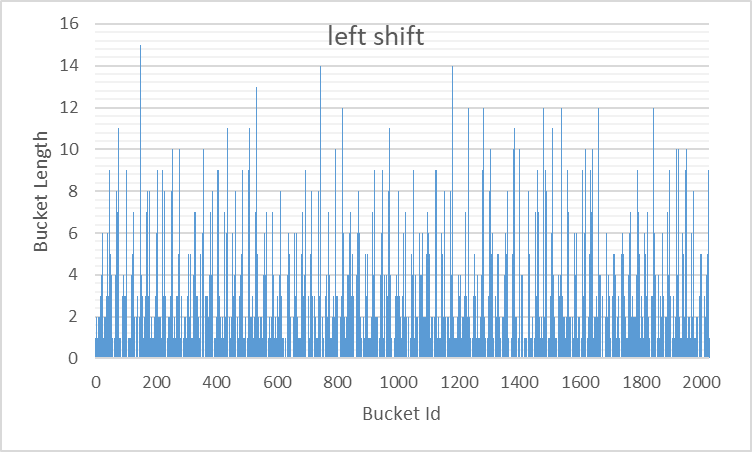
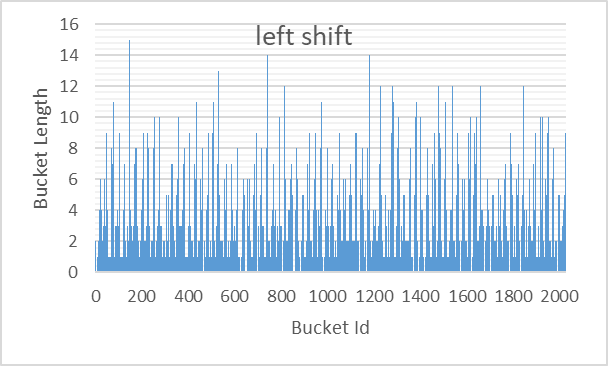
chore: unite experiment reports, resized images, fixed inconveniences

Changed region(s): [[0.0312, 0.0301, 0.9688, 0.9317], [0.0625, 0.0301, 0.125, 0.0902]]

diff --git a/REPORT.md b/REPORT.md
@@ -1,35 +1,126 @@
-# Исследование оптимизаций поиска значений в хеш-таблице с закрытой адресацией.
+# Отчёт об исследовании хеш-таблиц
+
 ## Введение
 Рассмотрим следующую задачу:
 
 *"Дан художественный текст на английском языке. Требуется составить множество слов текста, то есть структуру, хранящую все его слова и позволяющую как можно быстрее определять принадлежность некоторого слова к нему."*
 
-Задача может быть решена с использованием хеш-таблицы c закрытой адресацией (описание алгоритма на [AlgoList](https://www.algolist.net/Data_structures/Hash_table)).
+Задача может быть решена с использованием хеш-таблицы c закрытой адресацией (см. описание алгоритма на сайте [AlgoList](https://www.algolist.net/Data_structures/Hash_table)).
 
 Введём следующие определения:
  - **ключ** (**элемент**) - идентификатор элемента, хранящегося в структуре. В случае рассматриваемой задачи это слово из текста.
  - **хеш-функция** - функция, сопоставляющая ключам некоторые натуральные числа. Числа, сопоставляемые одинаковым ключам должны быть равны.
  - **хеш** - значение хеш-функции.
  - **список** (**bucket**) - множество элементов, в которое можно добавлять ключи и проверять, находятся ли они в нём. Соответствует структуре данных "связный список".
- - **хеш-таблица** (**таблица**) - множество списков, в каждом из которых всем ключам соответствуют одинаковые по модулю количества списков в таблице хеши.
+ - **хеш-таблица** (**таблица**) - множество списков, в каждом из которых всем ключам соответствуют одинаковые (по модулю количества списков в таблице) хеши.
 
-**Проверка принадлежности** ключей к хеш-таблице происходит по следующей последовательности действий:
+**Проверка принадлежности** ключей к хеш-таблице происходит по следующему алгоритму:
  1. Пусть требуется проверить ключ $x$ на принадлежность к таблице. Посчитаем хеш элемента $h(x)$, где $h$ - хеш-функция.
  2. Рассмотрим $h(x) \text{mod} N$ - й список таблицы, где $N$ - количество списков в таблице. Если $x$ принадлежит списку, то $x$ принадлежит таблице. Иначе $x$ не принадлежит таблице.
 
 | ![article_assets/table_search.png](article_assets/table_search.png) |
 | --- |
-| *Фигура 1. Иллюстрация к проверке принадлежности ключа к таблице. Зелёными ячейками обозначены индексы списков внутри таблицы. Синими клетками обозначены элементы самих списков. Символом '%' обозначено взятие числа по модулю. Остальные обозначения совпадают с обозначениями, введёнными в описании алгоритма.* |
+| *Рисунок 1. Иллюстрация к проверке принадлежности ключа к таблице. Зелёными ячейками обозначены индексы списков внутри таблицы. Синими клетками обозначены элементы самих списков. Символом '%' обозначено взятие числа по модулю. Остальные обозначения совпадают с обозначениями, введёнными в описании алгоритма.* |
 
-**Добавление** ключа в таблицу происходит по следующей последовательности действий:
+**Добавление** ключа в таблицу происходит по следующему алгоритму:
  1. Если ключ $x$ уже принадлежит таблице, ничего не делать.
  2. Иначе добавить $x$ в $h(x) \text{mod} N$ - й список таблицы, где $N$ - количество списков в таблице, $h$ - хеш-функция.
 
 | ![article_assets/table_insert.png](article_assets/table_insert.png) |
 | --- |
-| *Фигура 2. Иллюстрация к добавлению ключа к таблице. Зелёными ячейками обозначены индексы списков внутри таблицы. Синими клетками обозначены элементы самих списков. Символом '%' обозначено взятие числа по модулю. Остальные обозначения совпадают с обозначениями, введёнными в описании алгоритма.* |
+| *Рисунок 2. Иллюстрация к добавлению ключа к таблице. Обозначения аналогичны вводимым в рисунке 1.* |
 
-Целью данной работы является измерение коэффициента ускорения при использовании различных методов оптимизации проверки принадлежности элементов к таблице.
+# Часть 1: Исследование распределений хеш-функций в задаче хранения слов художественного текста
+Из алгоритма распределения ключей по спискам следует, что распределение зависит от выбора хеш-функции, используемой для расчёта хешей элементов. К примеру, хеш-функция, возвращающая на все ключи число 1 (тождественно равная 1) даст распределение, отличное от того, что даёт хеш-функция, тождественно равная числу 2.
+
+Целью данной части работы было исследование распределений, даваемые различными хеш-функциям на массиве ключей, взятых из литературного текста.
+
+Исследуемые хеш-функции:
+ 1. `constant_hash`: сопоставляет любому ключу хеш 1, $h(x)=1$,
+ 2. `first_char_hash`: сопоставляет каждому ключу хеш его первого байта, $h(x)=x_0$,
+ 3. `length_hash`: сопоставляет каждому ключу его длину как нуль-терминированного слова, $h(x)=\text{len}(x)$,
+ 4. `sum_hash`: сопоставляет каждому ключу сумму значений его байт, $h(x)=\sum_{i}x_i$,
+ 5. `left_shift_hash`: сопоставляет каждому ключу такой последовательный XOR его байт, что после каждой операции побитового исключения выполняется циклический сдвиг хеша на 1 бит влево,
+  
+  $$\text{len}(x)=0 \Rightarrow h(x)=0$$
+  
+  $$\text{len}(x)>0 \Rightarrow h(x)=\text{rol}(h(x_{[0, \dots ,\text{len}(x)-1)}))\otimes x_{\text{len}(x)-1}$$
+ 6. `right_shift_hash`: аналогично `left_shift_hash`, но сдвиг происходит вправо,
+ 
+  $$\text{len}(x)=0 \Rightarrow h(x)=0$$
+  
+  $$\text{len}(x)>0 \Rightarrow h(x)=\text{ror}(h(x_{[0, .. ,\text{len}(x)-1)}))\otimes x_{\text{len}(x)-1}$$
+ 7. `murmur_hash`: функция хеширования MurmurHash64
+
+Использованные обозначения:
+ - $h$ - хеш-функция,
+ - $x$ - ключ (строка символов $x_1,x_2,\dots,x_{\text{len}(x)-1}$),
+ - $x_i$ - $i$-й символ строки $x$ (в нумерации с 0)
+ - $\text{len}(x)$ - длина строки $x$,
+ - $x_{[0, \dots ,\text{len}(x)-1)}$ - строка $x$ кроме последнего символа,
+ - $\text{rol}(t)$ - циклический побитовый сдвиг числа $t$ влево,
+ - $\text{ror}(t)$ - циклический побитовый сдвиг числа $t$ вправо,
+ - $\otimes$ - операция побитового исключающего "или".
+
+Реализации хеш-функций приведены в файле [src/hash/hash_functions.cpp](src/hash/hash_functions.cpp) на странице `Processing`.
+
+## Методы
+Была составлена программа, реализующая хеш-таблицу на 2027 списков. Данной программе на вход передавался массив слов произведения Вильяма Шекспира ["The Comedy of Errors"](./assets/comedy_of_errors.txt) в кодировке utf-8 (без учёта регистра). Массив слов мог включать повторы, которые отбрасывались на этапе вставки слов в таблицу. В тексте было 1784 уникальных слова.
+
+После распределения слов по спискам хеш-таблицы в соответствии с хешами, выданными тестируемой хеш-функцией, программа измеряла длины получившихся списков и записывала измерения в файл в виде таблицы в формате `csv`.
+
+## Результаты
+Результаты измерений представлены на рисунках 3 - 8.
+
+| ![histogram](article_assets/distr_const_hash.png) ![histogram](article_assets/distr_const_hash_zm.png) |
+| --- |
+| *Рисунок 1. Гистограмма распределения, даваемого `const_hash`. Слева - полное распределение, справа - его увеличенный фрагмент.* |
+
+| ![histogram](article_assets/distr_first_char_hash.png) ![histogram](article_assets/distr_first_char_hash_zm.png) |
+| --- |
+| *Рисунок 2. Гистограмма распределения, даваемого `first_char_hash`. Слева - полное распределение, справа - его увеличенный фрагмент.* |
+
+| ![histogram](article_assets/distr_length_hash.png) ![histogram](article_assets/distr_length_hash_zm.png) |
+| --- |
+| *Рисунок 3. Гистограмма распределения, даваемого `length_hash`. Слева - полное распределение, справа - его увеличенный фрагмент.* |
+
+| ![histogram](article_assets/distr_sum_hash.png) |
+| --- |
+| *Рисунок 4. Гистограмма распределения, даваемого `sum_hash`.* |
+
+| ![histogram](article_assets/distr_left_shift_hash.png) |
+| --- |
+| *Рисунок 5. Гистограмма распределения, даваемого `left_shift_hash`.* |
+
+| ![histogram](article_assets/distr_right_shift_hash.png) |
+| --- |
+| *Рисунок 6. Гистограмма распределения, даваемого `right_shift_hash`.* |
+
+| ![histogram](article_assets/distr_murmur_hash.png) |
+| --- |
+| *Рисунок 7. Гистограмма распределения, даваемого `murmur_hash`.* |
+
+| ![stat_hist](article_assets/stat_deviation_all.png) ![stat_hist](article_assets/stat_max_all.png) |
+| --- |
+| *Рисунок 8. Сравнительная гистограмма всех исследованных хеш-функций. Слева - по стандартному отклонению, справа - по максимальной длине списка.* |
+
+## Выводы и обсуждение
+Как можно заметить, распределения, даваемые `sum_hash`, `left_shift_hash`, `right_shift_hash` и `murmur_hash` обладают наименьшими максимальными длинами списков и стандартными отклонениями. Среди них функцией, дающей наименьшее по максимальной длине и стандартному отклонению распределение является `murmur_hash`.
+
+`const_hash` по определению определила все ключи в один список, что увеличило оба измеряемых параметра его распределения.
+
+Значение `first_char_hash` не могла превышать 255 по определению, так как все ключи были в кодировке utf-8, и, следовательно, код первой буквы слова не мог превышать 255.
+
+`length_hash` так же по определению не превышала 17, так как длины всех слов в тексте не превышали 17.
+
+`sum_hash` хоть и обладает распределением, гораздо более распространённым по спискам таблицы, чем у ранее рассмотренных функций, но в его распределении визуально становится заметна закономерность, которой не наблюдается у `left_shift_hash`, `right_shift_hash` и `murmur_hash` (череда "пиков", начинающаяся у списка с индексом 100 и заканчивающаяся у списка с индексом 1400). Распределение ограничено списком с индексом 1800.
+
+О распределениях `left_shift_hash`, `right_shift_hash` и `murmur_hash` можно судить по их распределениям. `left_shift_hash` даёт менее равномерное распределение ключей по спискам, чем `right_shift_hash`, который, в свою очередь, даёт распределение менее равномерное, чем у `murmur_hash`.
+
+`murmur_hash` даёт наиболее "равномерное" распределение на данном множестве ключей, что показывает пригодность функции `murmur_hash` к использованию в хеш-таблицах, по тем или иным причинам требующих равномерного распределения ключей в них.
+
+# Часть 2: Исследование оптимизаций поиска значений в хеш-таблице с закрытой адресацией.
+Целью данной части работы является измерение коэффициента ускорения при использовании различных методов оптимизации проверки принадлежности элементов к таблице.
 
 Исследуемые оптимизации:
  - оптимизация при помощи SIMD-intrinsics,

diff --git a/README.md b/README.md
@@ -7,11 +7,7 @@ The main purpose of the project was
 1. Comparing different hash functions by their value distributions.
 2. Researching ways of hash table optimization.
 
-Distribution experiment reports:
- - RUS: [DISTRIBUTION_RESULTS_RUS.md](DISTRIBUTION_RESULTS_RUS.md)
-
-Optimization experiment report:
- - RUS: [PERFORMANCE_RESULTS_RUS.md](PERFORMANCE_RESULTS_RUS.md)
+Experiment report can be found in file [REPORT.md](REPORT.md) (RUS).
 
 ## Building
 

diff --git a/TODO.md b/TODO.md
@@ -1,1 +1,3 @@
 # TODO list of the project
+
+1. Translate everything to single language (russian or english).
